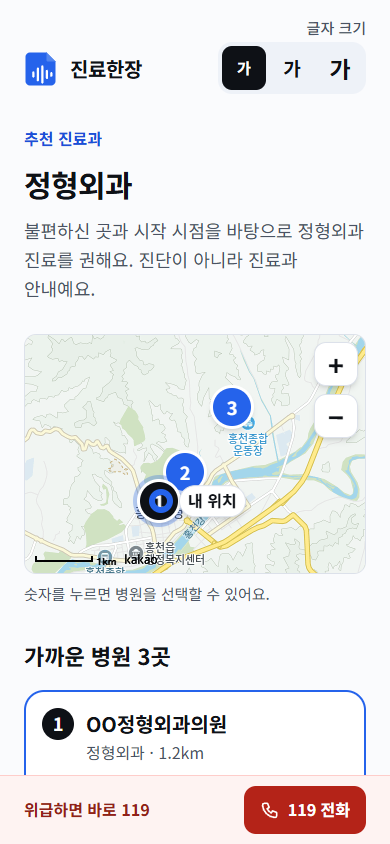
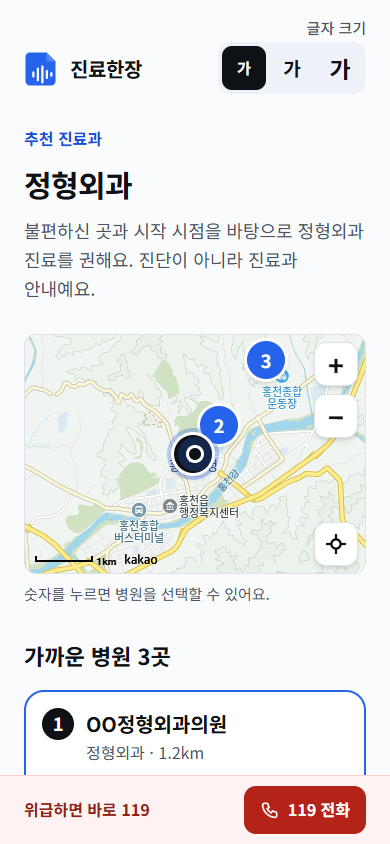
Feat: 내 위치 버튼과 현재 위치 점 디자인 반영, 카드 재선택 지도 이동 수정
Refs #103

Changed region(s): [[0.0615, 0.4005, 0.9538, 0.6777], [0.3385, 0.4005, 0.3692, 0.4313], [0.1231, 0.4005, 0.1538, 0.4313]]

diff --git a/src/components/map/KakaoHospitalMap.tsx b/src/components/map/KakaoHospitalMap.tsx
@@ -9,7 +9,6 @@ import {
 import {
   hospitalMarkerClassName,
   userLocationClassName,
-  userLocationLabelClassName,
 } from "@/components/map/markerStyle";
 import { nextMapLevel } from "@/components/map/mapLevel";
 import { syncMarkerLabels } from "@/components/map/markerLabels";
@@ -37,6 +36,7 @@ export function KakaoHospitalMap({
   appKey,
   hospitals,
   selectedHospitalId,
+  panRequest,
   userLocation,
   onSelectHospital,
   onLoadError,
@@ -45,6 +45,8 @@ export function KakaoHospitalMap({
   const [kakao, setKakao] = useState<{ maps: KakaoMapsApi; map: KakaoMap }>();
   const markersRef = useRef(new Map<string, HospitalMarker>());
   const panReadyRef = useRef(false);
+  // 이미 확보한 현재 위치의 지도 좌표입니다. 위치가 없으면 비어 있어 이동하지 않습니다.
+  const userPositionRef = useRef<KakaoLatLng | undefined>(undefined);
   const latestRef = useRef({
     hospitals,
     userLocation,
@@ -99,6 +101,7 @@ export function KakaoHospitalMap({
     const positions: KakaoLatLng[] = [];
     const markers = markersRef.current;
     markers.clear();
+    userPositionRef.current = undefined;
     hospitals.forEach((hospital) => {
       const position = new maps.LatLng(hospital.latitude, hospital.longitude);
       const button = document.createElement("button");
@@ -125,25 +128,19 @@ export function KakaoHospitalMap({
         userLocation.latitude,
         userLocation.longitude,
       );
-      // 점 중심이 좌표에 오도록 점만 흐름에 두고, 이름표는 옆에 띄웁니다.
-      const marker = document.createElement("div");
-      marker.className = "pointer-events-none relative h-[24px] w-[24px]";
       const dot = document.createElement("span");
       dot.className = userLocationClassName;
       dot.setAttribute("aria-hidden", "true");
-      const label = document.createElement("span");
-      label.className = userLocationLabelClassName;
-      label.textContent = "내 위치";
-      marker.append(dot, label);
       const overlay = new maps.CustomOverlay({
         position,
-        content: marker,
+        content: dot,
         // 병원 마커 위에 두어, 가까이 있어도 가려지지 않게 합니다.
         zIndex: 3,
       });
       overlay.setMap(map);
       overlays.push(overlay);
       positions.push(position);
+      userPositionRef.current = position;
     }
     if (positions.length === 1) {
       map.setCenter(positions[0]);
@@ -160,6 +157,21 @@ export function KakaoHospitalMap({
       markers.clear();
     };
   }, [kakao, pointsKey]);
+
+  // 글자 크기를 바꾸면 지도 칸의 너비가 달라집니다. 카카오맵은 크기 변화를 스스로 알지 못해,
+  // 다시 계산시키지 않으면 중심이 어긋나고 가장자리가 비어 보입니다.
+  useEffect(() => {
+    const container = containerRef.current;
+    if (!kakao || !container) return;
+    const { map } = kakao;
+    const observer = new ResizeObserver(() => {
+      const center = map.getCenter();
+      map.relayout();
+      map.setCenter(center);
+    });
+    observer.observe(container);
+    return () => observer.disconnect();
+  }, [kakao]);
 
   useEffect(() => {
     if (!kakao) return;
@@ -200,12 +212,29 @@ export function KakaoHospitalMap({
     event.preventDefault();
   }
 
+  function moveToUserLocation() {
+    const position = userPositionRef.current;
+    if (kakao && position) kakao.map.panTo(position);
+  }
+
   function zoom(direction: "in" | "out") {
     if (!kakao) return;
     kakao.map.setLevel(nextMapLevel(kakao.map.getLevel(), direction), {
       animate: true,
     });
   }
+
+  // 카드 재클릭 요청입니다. 확대 단계와 범위는 건드리지 않고 선택한 마커로만 이동합니다.
+  useEffect(() => {
+    if (!kakao || !panRequest) return;
+    const selected =
+      selectedHospitalId === undefined
+        ? undefined
+        : markersRef.current.get(selectedHospitalId);
+    if (selected) kakao.map.panTo(selected.position);
+    // 요청 번호가 바뀔 때만 실행합니다. 선택·마커가 바뀌는 경우는 위 effect가 맡습니다.
+    // eslint-disable-next-line react-hooks/exhaustive-deps
+  }, [kakao, panRequest]);
 
   return (
     <div className="space-y-2">
@@ -222,24 +251,51 @@ export function KakaoHospitalMap({
         />
         {/* eslint-enable jsx-a11y-x/no-noninteractive-element-interactions, jsx-a11y-x/no-noninteractive-tabindex */}
         {kakao ? (
-          <div className="absolute top-2 right-2 z-10 flex flex-col gap-2">
+          <>
+            <div className="absolute top-2 right-2 z-10 flex flex-col gap-2">
+              <button
+                type="button"
+                aria-label="지도 확대"
+                onClick={() => zoom("in")}
+                className={zoomButtonClassName}
+              >
+                <span aria-hidden="true">+</span>
+              </button>
+              <button
+                type="button"
+                aria-label="지도 축소"
+                onClick={() => zoom("out")}
+                className={zoomButtonClassName}
+              >
+                <span aria-hidden="true">−</span>
+              </button>
+            </div>
             <button
               type="button"
-              aria-label="지도 확대"
-              onClick={() => zoom("in")}
-              className={zoomButtonClassName}
+              disabled={userLocation === undefined}
+              aria-label={
+                userLocation === undefined
+                  ? "내 위치로 이동, 현재 위치를 확인하지 못해 쓸 수 없어요"
+                  : "내 위치로 이동"
+              }
+              onClick={moveToUserLocation}
+              className={`absolute right-2 bottom-2 z-10 ${zoomButtonClassName} disabled:cursor-not-allowed disabled:text-subtle`}
             >
-              <span aria-hidden="true">+</span>
+              <svg
+                aria-hidden="true"
+                width="22"
+                height="22"
+                viewBox="0 0 24 24"
+                fill="none"
+                stroke="currentColor"
+                strokeWidth="2.5"
+                strokeLinecap="round"
+              >
+                <circle cx="12" cy="12" r="5" />
+                <path d="M12 2v4M12 18v4M2 12h4M18 12h4" />
+              </svg>
             </button>
-            <button
-              type="button"
-              aria-label="지도 축소"
-              onClick={() => zoom("out")}
-              className={zoomButtonClassName}
-            >
-              <span aria-hidden="true">−</span>
-            </button>
-          </div>
+          </>
         ) : (
           <p
             role="status"

diff --git a/src/pages/emergency/EmergencyPage.tsx b/src/pages/emergency/EmergencyPage.tsx
@@ -39,6 +39,7 @@ export function EmergencyPage() {
     result: HospitalSearchResult | null;
   } | null>(null);
   const [selectedId, setSelectedId] = useState<string>();
+  const [panRequest, setPanRequest] = useState(0);
   const rooms = location && found?.location === location ? found.result : null;
 
   // 고르기 전에는 가장 가까운 응급실을 선택한 것으로 봅니다.
@@ -148,6 +149,7 @@ export function EmergencyPage() {
               longitude: room.longitude,
             }))}
             selectedHospitalId={activeId}
+            panRequest={panRequest}
             userLocation={location ?? undefined}
             onSelectHospital={(id) => {
               setSelectedId(id);
@@ -164,7 +166,10 @@ export function EmergencyPage() {
                   room={room}
                   rank={index + 1}
                   selected={id === activeId}
-                  onSelect={() => setSelectedId(id)}
+                  onSelect={() => {
+                    setSelectedId(id);
+                    setPanRequest((count) => count + 1);
+                  }}
                 />
               );
             })}

diff --git a/src/pages/hospitals/components/HospitalResults.tsx b/src/pages/hospitals/components/HospitalResults.tsx
@@ -33,6 +33,7 @@ export function HospitalResults({
   now: Date;
 }) {
   const [selectedId, setSelectedId] = useState<string>();
+  const [panRequest, setPanRequest] = useState(0);
   const { hospitals } = result;
   // 고르기 전에는 지금 목록의 첫 병원을 선택한 것으로 봅니다.
   const activeId = resolveActiveId(
@@ -57,6 +58,7 @@ export function HospitalResults({
           longitude: hospital.longitude,
         }))}
         selectedHospitalId={activeId}
+        panRequest={panRequest}
         userLocation={userLocation ?? undefined}
         onSelectHospital={(id) => {
           setSelectedId(id);
@@ -79,7 +81,10 @@ export function HospitalResults({
                 now={now}
                 rank={index + 1}
                 selected={id === activeId}
-                onSelect={() => setSelectedId(id)}
+                onSelect={() => {
+                  setSelectedId(id);
+                  setPanRequest((count) => count + 1);
+                }}
               />
             );
           })}

diff --git a/src/components/map/markerStyle.ts b/src/components/map/markerStyle.ts
@@ -7,10 +7,6 @@ export function hospitalMarkerClassName(selected: boolean) {
     : `${base} bg-brand`;
 }
 
-// 현재 위치는 속이 빈 고리로 그려, 속이 찬 번호 마커와 한눈에 구분됩니다.
+// 현재 위치는 진한 중심점, 흰 테두리, 옅은 바깥 고리입니다. 번호가 든 병원 마커보다 작아 구별됩니다.
 export const userLocationClassName =
-  "block h-[24px] w-[24px] rounded-full border-[6px] border-brand shadow-md";
-
-// 현재 위치 점 옆에 붙는 이름표입니다. 병원 마커와 겹쳐도 읽히도록 배경을 둡니다.
-export const userLocationLabelClassName =
-  "absolute top-1/2 left-[30px] -translate-y-1/2 rounded-full border border-line bg-surface px-[8px] py-[2px] text-[0.889rem] font-bold whitespace-nowrap text-ink shadow-md";
+  "pointer-events-none block h-[18px] w-[18px] rounded-full border-[3px] border-white bg-ink shadow-md ring-[8px] ring-brand/25";

diff --git a/src/components/map/types.ts b/src/components/map/types.ts
@@ -13,6 +13,9 @@ export interface MapHospital extends MapLocation {
 export interface HospitalMapProps {
   hospitals: readonly MapHospital[];
   selectedHospitalId?: string;
+  // 카드를 누를 때마다 1씩 늘리는 값입니다. 이미 선택된 병원의 카드를 다시 눌러도
+  // 지도가 그 마커로 돌아오게 합니다. 선택 ID가 같아 effect가 다시 실행되지 않는 경우를 위한 별도 요청입니다.
+  panRequest?: number;
   userLocation?: MapLocation;
   onSelectHospital: (id: string) => void;
 }

diff --git a/src/components/map/kakaoMapLoader.ts b/src/components/map/kakaoMapLoader.ts
@@ -14,6 +14,8 @@ export interface KakaoMap {
     paddingLeft?: number,
   ): void;
   setCenter(position: KakaoLatLng): void;
+  getCenter(): KakaoLatLng;
+  relayout(): void;
   setLevel(level: number, options?: { animate?: boolean }): void;
   getLevel(): number;
   panTo(position: KakaoLatLng): void;
